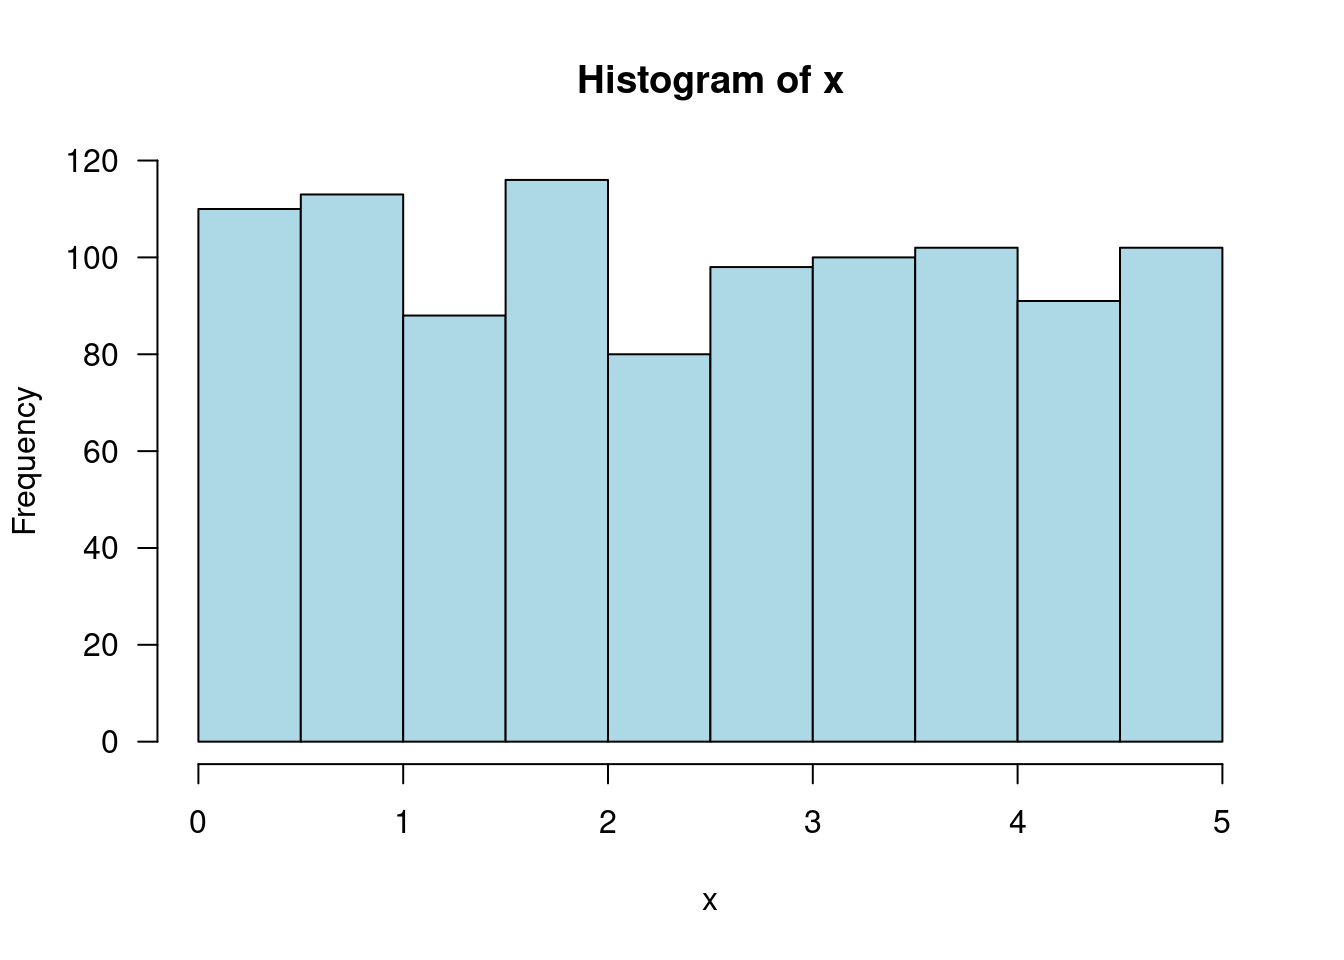
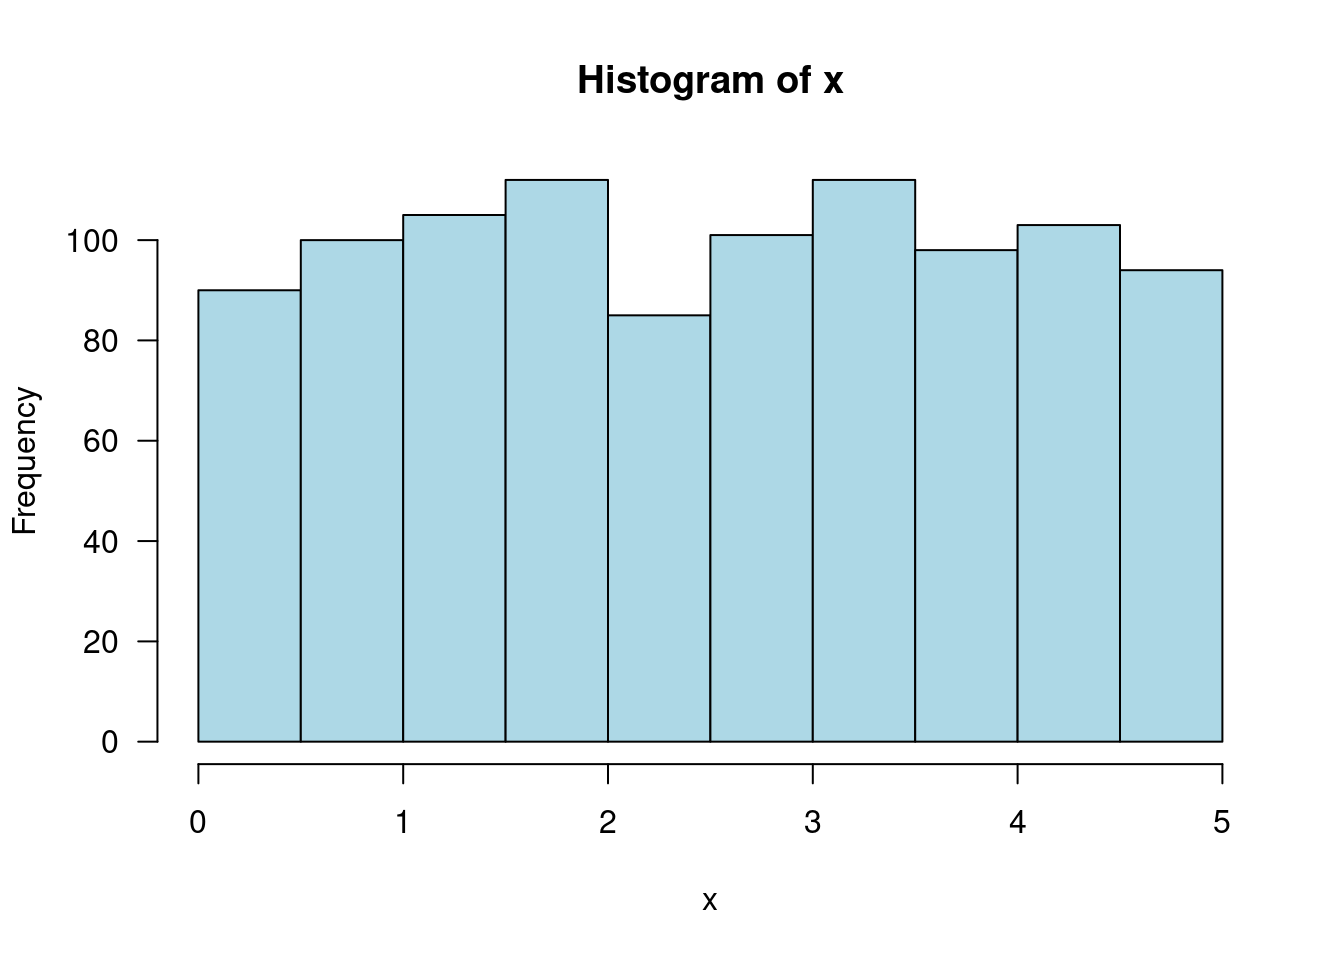
Deploying to gh-pages from @ jtr13/1201@13194a8ce34561a2af424e192d591b9b85518dc1 🚀

diff --git a/ch.-4-continuous-random-variables-and-probability-distributions.html b/ch.-4-continuous-random-variables-and-probability-distributions.html
@@ -82,12 +82,12 @@
 <p><span class="math inline">\(f(x) = .2\)</span> for <span class="math inline">\(0 \leq x \leq 5\)</span>, 0 otherwise.</p>
 <div class="sourceCode" id="cb161"><pre class="downlit sourceCode r">
 <code class="sourceCode R"><span><span class="fu"><a href="https://rdrr.io/r/stats/Uniform.html">runif</a></span><span class="op">(</span>n <span class="op">=</span> <span class="fl">1</span>, min <span class="op">=</span> <span class="fl">0</span>, max <span class="op">=</span> <span class="fl">5</span><span class="op">)</span></span></code></pre></div>
-<pre><code>## [1] 4.352672</code></pre>
+<pre><code>## [1] 3.467036</code></pre>
 <p>Take the average of 1000 picks:</p>
 <div class="sourceCode" id="cb163"><pre class="downlit sourceCode r">
 <code class="sourceCode R"><span><span class="va">x</span> <span class="op">&lt;-</span> <span class="fu"><a href="https://rdrr.io/r/stats/Uniform.html">runif</a></span><span class="op">(</span>n <span class="op">=</span> <span class="fl">1000</span>, min <span class="op">=</span> <span class="fl">0</span>, max <span class="op">=</span> <span class="fl">5</span><span class="op">)</span></span>
 <span><span class="fu"><a href="https://rdrr.io/r/base/mean.html">mean</a></span><span class="op">(</span><span class="va">x</span><span class="op">)</span></span></code></pre></div>
-<pre><code>## [1] 2.456168</code></pre>
+<pre><code>## [1] 2.509317</code></pre>
 <p>Draw a histogram of the 1000 picks:</p>
 <div class="sourceCode" id="cb165"><pre class="downlit sourceCode r">
 <code class="sourceCode R"><span><span class="fu"><a href="https://rdrr.io/r/graphics/hist.html">hist</a></span><span class="op">(</span><span class="va">x</span>, las <span class="op">=</span> <span class="fl">1</span>, col <span class="op">=</span> <span class="st">"lightblue"</span><span class="op">)</span></span></code></pre></div>
@@ -270,7 +270,7 @@ aid, sothat <em>p = .25</em>. What is the probability that at most 10 students r
 <footer class="bg-primary text-light mt-5"><div class="container"><div class="row">
 
   <div class="col-12 col-md-6 mt-3">
-    <p>"<strong>Stat 1201 Resources</strong>" was written by Joyce Robbins. It was last built on 2024-01-25.</p>
+    <p>"<strong>Stat 1201 Resources</strong>" was written by Joyce Robbins. It was last built on 2024-02-03.</p>
   </div>
 
   <div class="col-12 col-md-6 mt-3">

diff --git a/404.html b/404.html
@@ -85,7 +85,7 @@ the table of contents to find the page you are looking for.</p>
 <footer class="bg-primary text-light mt-5"><div class="container"><div class="row">
 
   <div class="col-12 col-md-6 mt-3">
-    <p>"<strong>Stat 1201 Resources</strong>" was written by Joyce Robbins. It was last built on 2024-01-25.</p>
+    <p>"<strong>Stat 1201 Resources</strong>" was written by Joyce Robbins. It was last built on 2024-02-03.</p>
   </div>
 
   <div class="col-12 col-md-6 mt-3">

diff --git a/ch.-5-joint-probability.html b/ch.-5-joint-probability.html
@@ -148,7 +148,7 @@ Two points are needed to calculate r.
 <footer class="bg-primary text-light mt-5"><div class="container"><div class="row">
 
   <div class="col-12 col-md-6 mt-3">
-    <p>"<strong>Stat 1201 Resources</strong>" was written by Joyce Robbins. It was last built on 2024-01-25.</p>
+    <p>"<strong>Stat 1201 Resources</strong>" was written by Joyce Robbins. It was last built on 2024-02-03.</p>
   </div>
 
   <div class="col-12 col-md-6 mt-3">

diff --git a/ch.-1-descriptive-statistics.html b/ch.-1-descriptive-statistics.html
@@ -350,7 +350,7 @@
 <footer class="bg-primary text-light mt-5"><div class="container"><div class="row">
 
   <div class="col-12 col-md-6 mt-3">
-    <p>"<strong>Stat 1201 Resources</strong>" was written by Joyce Robbins. It was last built on 2024-01-25.</p>
+    <p>"<strong>Stat 1201 Resources</strong>" was written by Joyce Robbins. It was last built on 2024-02-03.</p>
   </div>
 
   <div class="col-12 col-md-6 mt-3">

diff --git a/ch.-12-linear-regression.html b/ch.-12-linear-regression.html
@@ -300,7 +300,7 @@
 <footer class="bg-primary text-light mt-5"><div class="container"><div class="row">
 
   <div class="col-12 col-md-6 mt-3">
-    <p>"<strong>Stat 1201 Resources</strong>" was written by Joyce Robbins. It was last built on 2024-01-25.</p>
+    <p>"<strong>Stat 1201 Resources</strong>" was written by Joyce Robbins. It was last built on 2024-02-03.</p>
   </div>
 
   <div class="col-12 col-md-6 mt-3">

diff --git a/ch.-13-nonlinear-and-multiple-regression.html b/ch.-13-nonlinear-and-multiple-regression.html
@@ -105,7 +105,7 @@
 <footer class="bg-primary text-light mt-5"><div class="container"><div class="row">
 
   <div class="col-12 col-md-6 mt-3">
-    <p>"<strong>Stat 1201 Resources</strong>" was written by Joyce Robbins. It was last built on 2024-01-25.</p>
+    <p>"<strong>Stat 1201 Resources</strong>" was written by Joyce Robbins. It was last built on 2024-02-03.</p>
   </div>
 
   <div class="col-12 col-md-6 mt-3">

diff --git a/ch.-14-chi-squared-test.html b/ch.-14-chi-squared-test.html
@@ -251,7 +251,7 @@
 <footer class="bg-primary text-light mt-5"><div class="container"><div class="row">
 
   <div class="col-12 col-md-6 mt-3">
-    <p>"<strong>Stat 1201 Resources</strong>" was written by Joyce Robbins. It was last built on 2024-01-25.</p>
+    <p>"<strong>Stat 1201 Resources</strong>" was written by Joyce Robbins. It was last built on 2024-02-03.</p>
   </div>
 
   <div class="col-12 col-md-6 mt-3">

diff --git a/ch.-2-conditional-probability.html b/ch.-2-conditional-probability.html
@@ -107,7 +107,7 @@
 <footer class="bg-primary text-light mt-5"><div class="container"><div class="row">
 
   <div class="col-12 col-md-6 mt-3">
-    <p>"<strong>Stat 1201 Resources</strong>" was written by Joyce Robbins. It was last built on 2024-01-25.</p>
+    <p>"<strong>Stat 1201 Resources</strong>" was written by Joyce Robbins. It was last built on 2024-02-03.</p>
   </div>
 
   <div class="col-12 col-md-6 mt-3">

diff --git a/ch.-2-probability.html b/ch.-2-probability.html
@@ -153,7 +153,7 @@
 <footer class="bg-primary text-light mt-5"><div class="container"><div class="row">
 
   <div class="col-12 col-md-6 mt-3">
-    <p>"<strong>Stat 1201 Resources</strong>" was written by Joyce Robbins. It was last built on 2024-01-25.</p>
+    <p>"<strong>Stat 1201 Resources</strong>" was written by Joyce Robbins. It was last built on 2024-02-03.</p>
   </div>
 
   <div class="col-12 col-md-6 mt-3">

diff --git a/ch.-3-discrete-distributions.html b/ch.-3-discrete-distributions.html
@@ -365,7 +365,7 @@
 <footer class="bg-primary text-light mt-5"><div class="container"><div class="row">
 
   <div class="col-12 col-md-6 mt-3">
-    <p>"<strong>Stat 1201 Resources</strong>" was written by Joyce Robbins. It was last built on 2024-01-25.</p>
+    <p>"<strong>Stat 1201 Resources</strong>" was written by Joyce Robbins. It was last built on 2024-02-03.</p>
   </div>
 
   <div class="col-12 col-md-6 mt-3">

diff --git a/ch.-5-random-samples.html b/ch.-5-random-samples.html
@@ -108,7 +108,7 @@
 <footer class="bg-primary text-light mt-5"><div class="container"><div class="row">
 
   <div class="col-12 col-md-6 mt-3">
-    <p>"<strong>Stat 1201 Resources</strong>" was written by Joyce Robbins. It was last built on 2024-01-25.</p>
+    <p>"<strong>Stat 1201 Resources</strong>" was written by Joyce Robbins. It was last built on 2024-02-03.</p>
   </div>
 
   <div class="col-12 col-md-6 mt-3">

diff --git a/ch.-6-point-estimation.html b/ch.-6-point-estimation.html
@@ -109,7 +109,7 @@
 <footer class="bg-primary text-light mt-5"><div class="container"><div class="row">
 
   <div class="col-12 col-md-6 mt-3">
-    <p>"<strong>Stat 1201 Resources</strong>" was written by Joyce Robbins. It was last built on 2024-01-25.</p>
+    <p>"<strong>Stat 1201 Resources</strong>" was written by Joyce Robbins. It was last built on 2024-02-03.</p>
   </div>
 
   <div class="col-12 col-md-6 mt-3">
